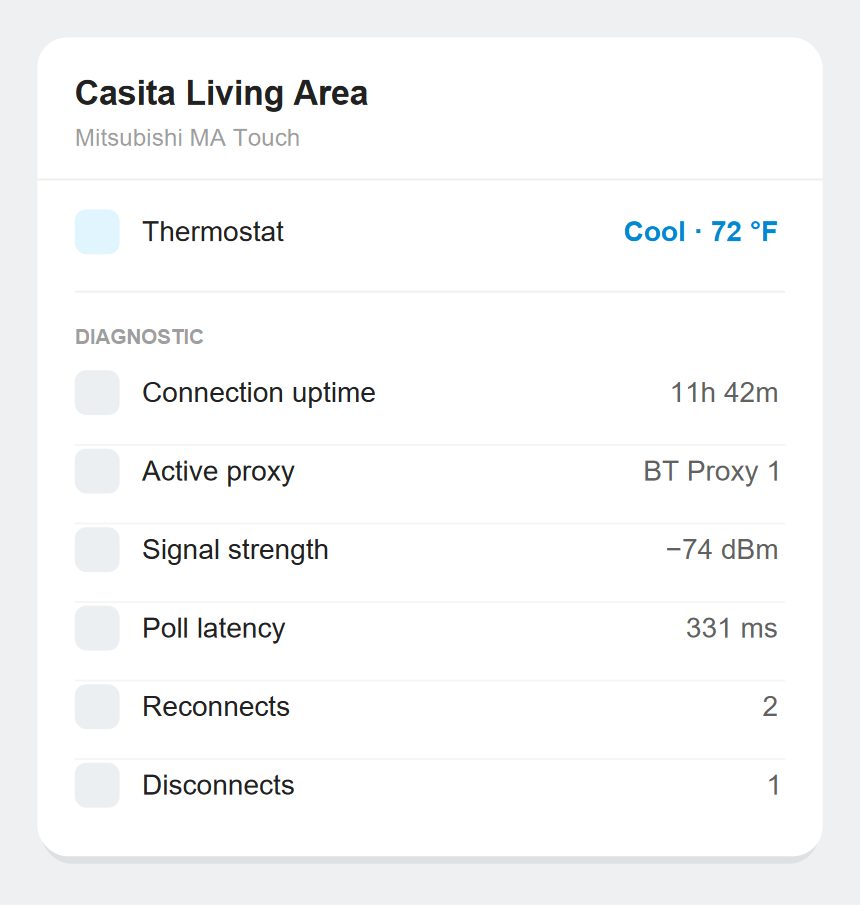
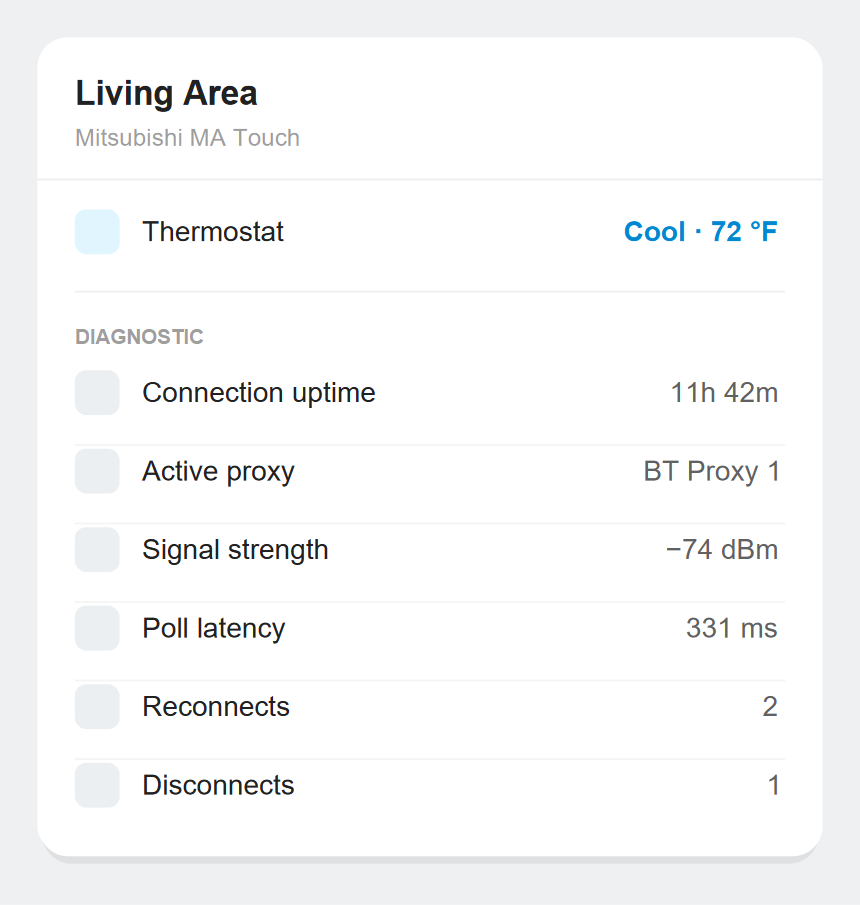
docs: use the real Home Assistant thermostat card screenshot
Replace the generated card mockup with the owner's actual HA thermostat card
screenshot (Living Area, shown in Fahrenheit). The diagnostics image is regenerated
to match the device name and moved into the Diagnostic sensors section.

Changed region(s): [[0.0907, 0.0619, 0.4233, 0.1238]]

diff --git a/README.md b/README.md
@@ -30,12 +30,10 @@ It focuses on doing a few things well:
   Assistant card matches the physical controller exactly (no off-by-one).
 
 <p align="center">
-  <img src="images/thermostat-card.png" alt="Home Assistant thermostat card for a Casita Living Area MA Touch unit" width="350">
-  &nbsp;&nbsp;
-  <img src="images/diagnostics.png" alt="Per-thermostat diagnostic sensors: connection uptime, active proxy, signal strength, poll latency, reconnects, disconnects" width="368">
+  <img src="images/thermostat-card.png" alt="Home Assistant thermostat card for a Living Area MA Touch unit, shown in Fahrenheit" width="330">
 </p>
 
-<p align="center"><sub>The Home Assistant thermostat card and per-device diagnostic telemetry for one unit.</sub></p>
+<p align="center"><sub>The Home Assistant thermostat card for one MA Touch unit — whole-°F setpoints that match the physical controller.</sub></p>
 
 ## Why Bluetooth?
 
@@ -262,6 +260,12 @@ Per thermostat, for characterizing the BLE/proxy link over time
 | Poll latency | ms | Round-trip time of the last status read |
 | Active proxy | — | Which ESP32 proxy is currently serving this thermostat |
 | Signal strength | dBm | Link RSSI (captured at connect) |
+
+<p align="center">
+  <img src="images/diagnostics.png" alt="Per-thermostat diagnostic telemetry on the Home Assistant device page: connection uptime, active proxy, signal strength, poll latency, reconnects, disconnects" width="420">
+</p>
+
+<p align="center"><sub>Per-thermostat diagnostic telemetry on the device page (illustrative).</sub></p>
 
 ## Temperature & Fahrenheit
 